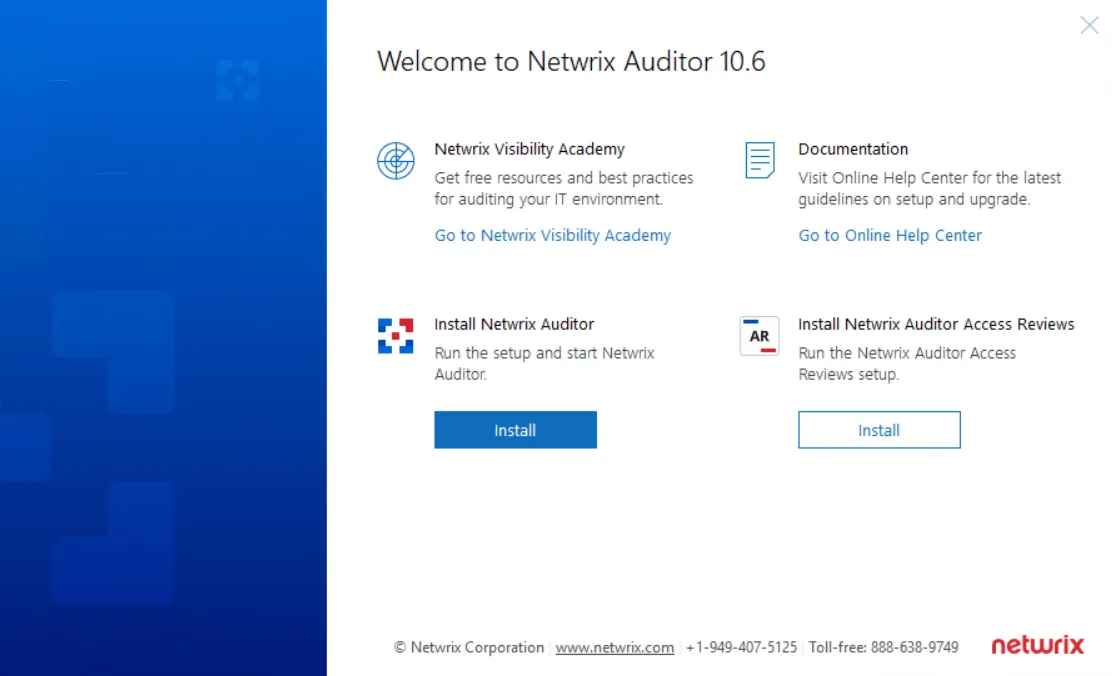
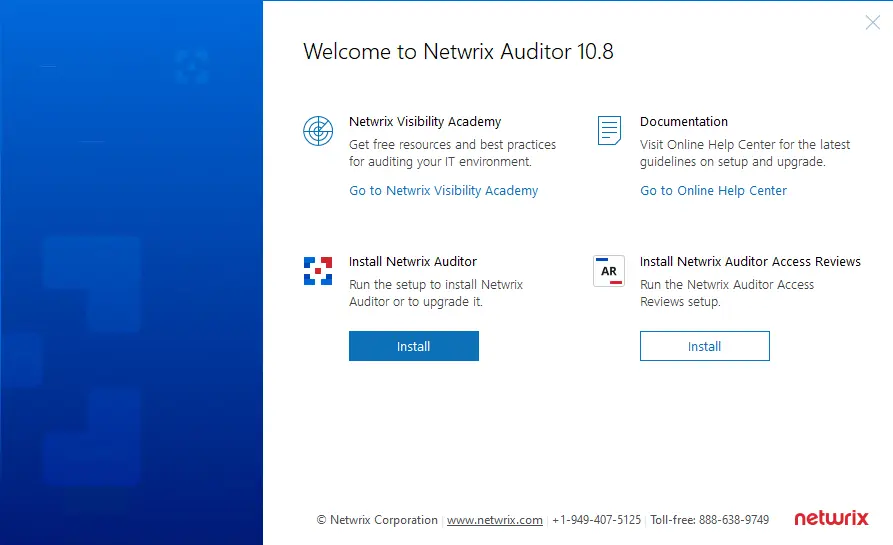
Auditor installation documentation updates (#312)

diff --git a/docs/auditor/10.8/install/overview.md b/docs/auditor/10.8/install/overview.md
@@ -26,7 +26,7 @@ the internet.
 
 Follow these steps to install Netwrix Auditor
 
-**Step 1 –** Download Netwrix Auditor 10.7 from
+**Step 1 –** Download Netwrix Auditor 10.8 from
 [Netwrix website](https://www.netwrix.com/auditor.html).
 
 NOTE: Before installing Netwrix Auditor, make sure that the Windows Firewall service is started. If
@@ -36,7 +36,7 @@ you must be a member of the local Administrators group to run the Netwrix Audito
 **Step 2 –** Unpack the installation package. The following window will be displayed on successful
 operation completion:
 
-![installationscreen](/images/auditor/10.7/install/installationscreen.webp)
+![installationscreen](/images/auditor/10.8/install/installationscreen.webp)
 
 **Step 3 –** Follow the instructions of the setup wizard. When prompted, accept the license
 agreement.
@@ -67,7 +67,7 @@ After a successful installation, Auditor shortcut will be added to the **Start**
 the product will start. See the [First Launch](/docs/auditor/10.8/install/firstlaunch.md) topic for additional information on
 the product navigation.
 
-![welcome_screen](/images/auditor/10.7/install/welcome_screen.webp)
+![welcome_screen](/images/auditor/10.8/install/welcome_screen.webp)
 
 Netwrix looks beyond the traditional on-premises installation and provides Auditor for cloud and
 virtual environments. For example, you can deploy Auditor on a pre-configured Microsoft Azure

diff --git a/docs/auditor/10.8/install/upgrade.md b/docs/auditor/10.8/install/upgrade.md
@@ -9,11 +9,11 @@ sidebar_position: 80
 Netwrix recommends that you upgrade from the older versions of Netwrix Auditor to the latest version
 available to take advantage of the new features.
 
-Seamless upgrade to Netwrix Auditor 10.7 is supported for versions 10.6 and 10.5.
+Seamless upgrade to Netwrix Auditor 10.8 is supported for versions 10.7 and 10.6.
 
 If you use an earlier version of Netwrix Auditor, then you need to upgrade sequentially right to
-version 10.7. See the following Netwrix knowledge base article for more information:
-[Upgrade Increments for Netwrix Auditor](https://helpcenter.netwrix.com/bundle/z-kb-articles-salesforce/page/kA00g000000H9eJCAS.html).
+version 10.8. See the following Netwrix knowledge base article for more information:
+[Upgrade Increments for Netwrix Auditor](/docs/kb/auditor/upgrade-increments-for-netwrix-auditor).
 
 ## Before Starting the Upgrade
 
@@ -108,7 +108,7 @@ operation. The issues listed below apply to upgrade from 9.96 and 10.
 
 ## Upgrade Procedure
 
-You can upgrade Netwrix Auditor to 10.7 by running the installation package.
+You can upgrade Netwrix Auditor to 10.8 by running the installation package.
 
 Customers who are logged in to the Netwrix Customer Portal can download the latest version of their
 software products from the My Products page:

diff --git a/docs/kb/auditor/upgrade-increments-for-netwrix-auditor.md b/docs/kb/auditor/upgrade-increments-for-netwrix-auditor.md
@@ -1,14 +1,14 @@
 ---
 description: >-
   Describes the approved incremental upgrade paths for Netwrix Auditor up to
-  version 10.5 and provides recommendations and prerequisites for successful
+  version 10.8 and provides recommendations and prerequisites for successful
   upgrades.
 keywords:
   - Netwrix Auditor
   - upgrade
   - incremental upgrade
   - database upgrade
-  - 10.5
+  - 10.8
   - 9.9
   - license
 products:
@@ -23,7 +23,7 @@ knowledge_article_id: kA00g000000H9eJCAS
 
 ## Overview
 
-When upgrading from old versions of Netwrix Auditor, you must do that **incrementally**. Below is the list of approved upgrade paths up to the version 10.5.
+When upgrading from old versions of Netwrix Auditor, you must do that **incrementally**. Below is the list of approved upgrade paths up to the version 10.8.
 
 ## Before you start
 

diff --git a/docs/auditor/10.8/install/virtualappliance/configure.md b/docs/auditor/10.8/install/virtualappliance/configure.md
@@ -31,7 +31,7 @@ the license agreement and then press `Y` to accept it.
 
 In the example below, review how the shell script configures the new VM:
 
-![appliance_script](/images/auditor/10.7/install/virtualappliance/appliance_script.webp)
+![appliance_script](/images/auditor/10.8/install/virtualappliance/appliance_script.webp)
 
 **Step 6 –** When the script execution completes, you will be prompted to reboot the virtual machine
 for the changes to take effect.

diff --git a/docs/auditor/10.8/install/firstlaunch.md b/docs/auditor/10.8/install/firstlaunch.md
@@ -27,7 +27,7 @@ To start using Netwrix Auditor
 
 After logging into Netwrix Auditor, you will see the following window:
 
-![welcome_screen_thumb_0_0](/images/auditor/10.7/install/welcome_screen_thumb_0_0.webp)
+![welcome_screen_thumb_0_0](/images/auditor/10.8/install/welcome_screen_thumb_0_0.webp)
 
 Take a closer look at the Home page. It contains everything you need to enable complete visibility
 in your environment.
